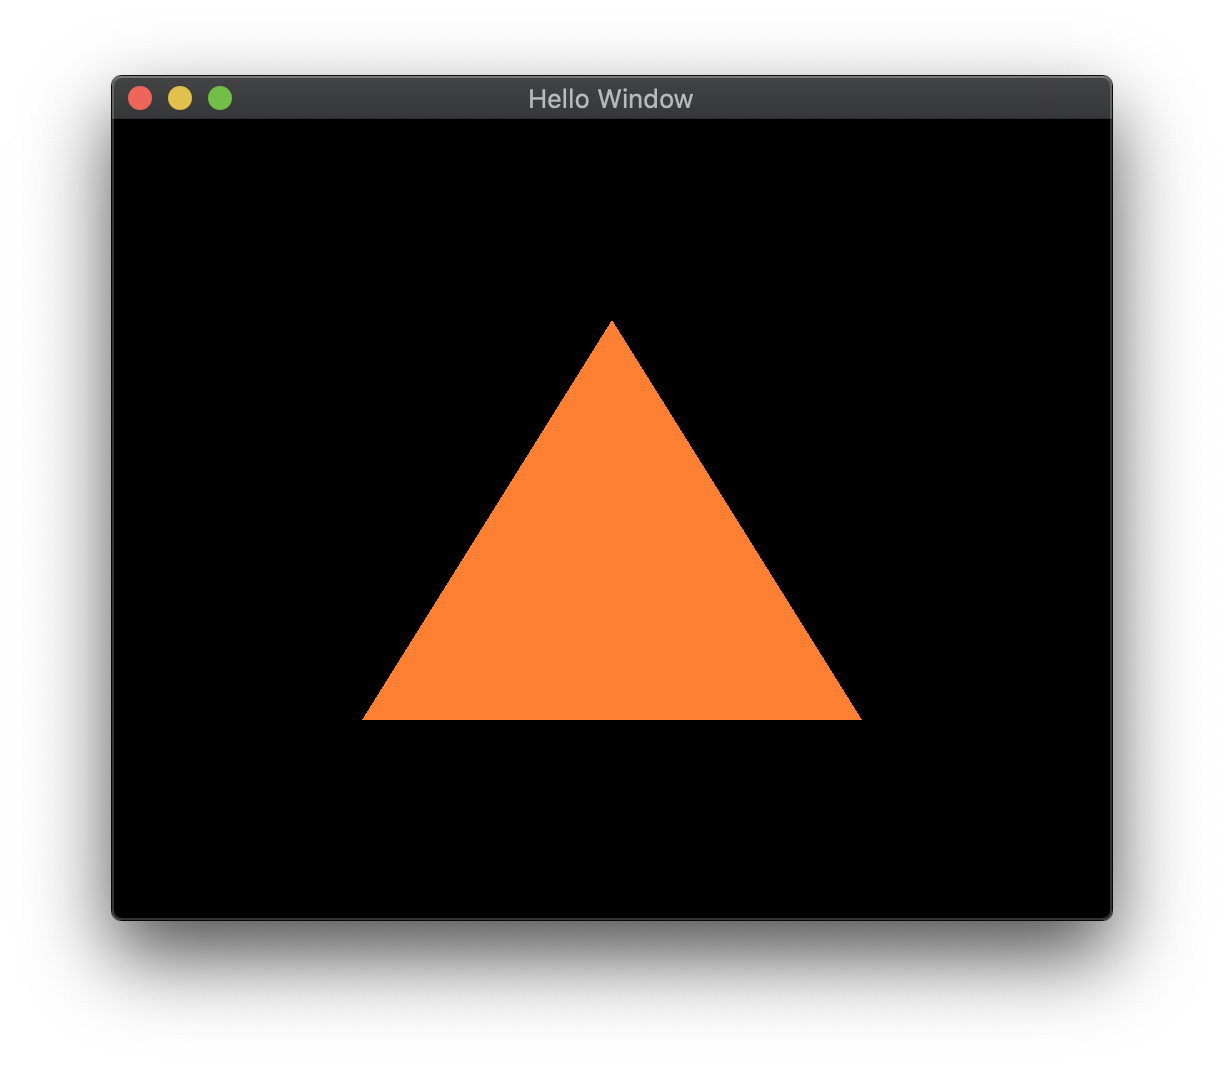
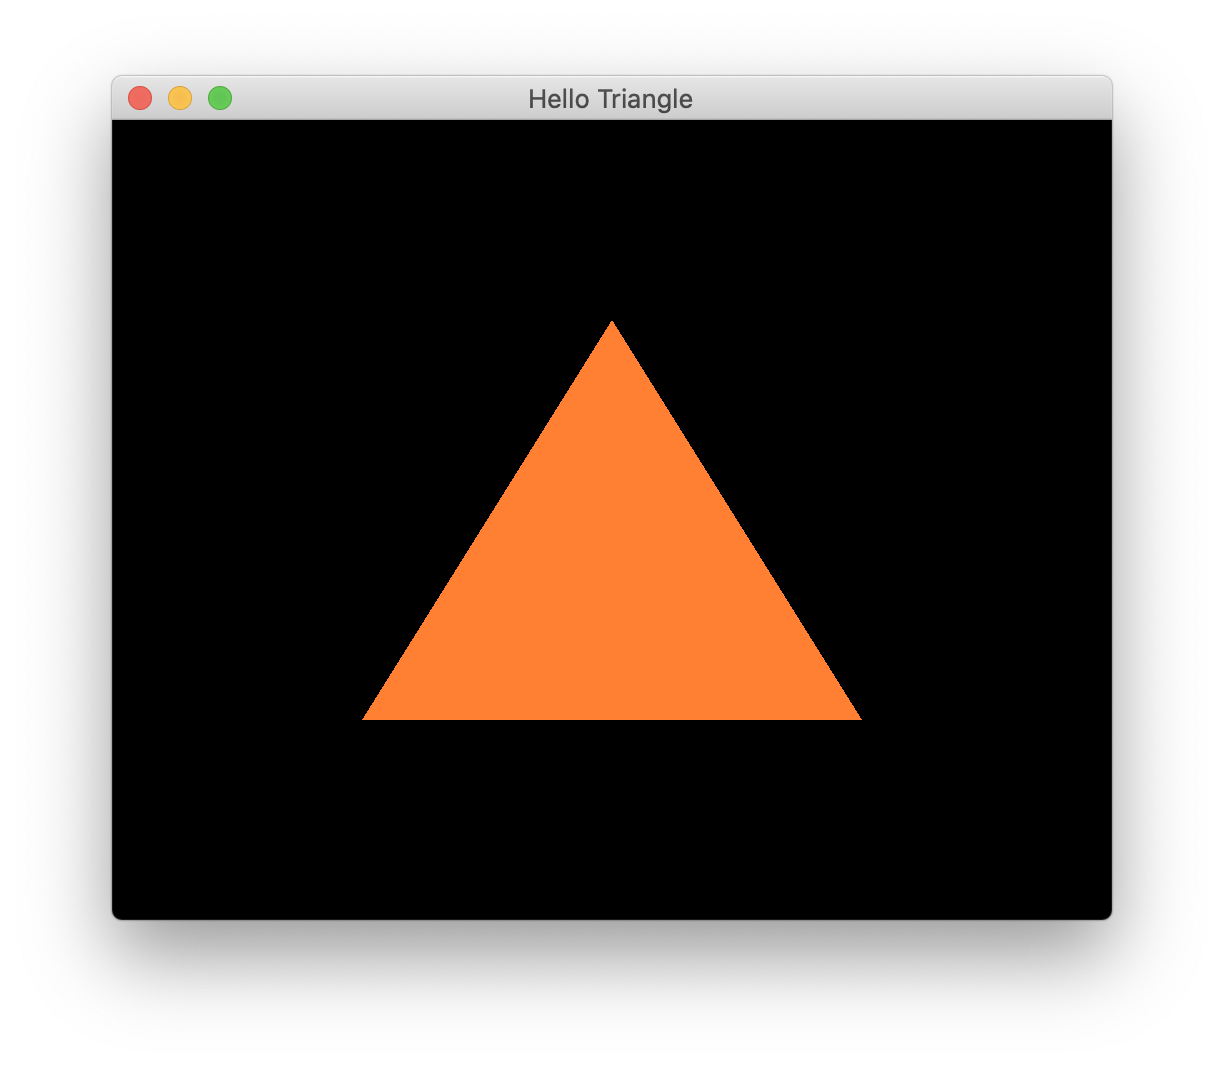
Change window title

Changed region(s): [[0.0621, 0.0618, 0.9314, 0.927]]

diff --git a/LearnOpenGLDotCom/hellotriangle.cpp b/LearnOpenGLDotCom/hellotriangle.cpp
@@ -39,7 +39,7 @@ int main() {
 
   // create glfw window
   GLFWwindow *window =
-      glfwCreateWindow(SCR_WIDTH, SCR_HEIGHT, "Hello Window", NULL, NULL);
+      glfwCreateWindow(SCR_WIDTH, SCR_HEIGHT, "Hello Triangle", NULL, NULL);
   if (!window) {
     std::cout << "Failed to create GLFW window" << std::endl;
     glfwTerminate();
